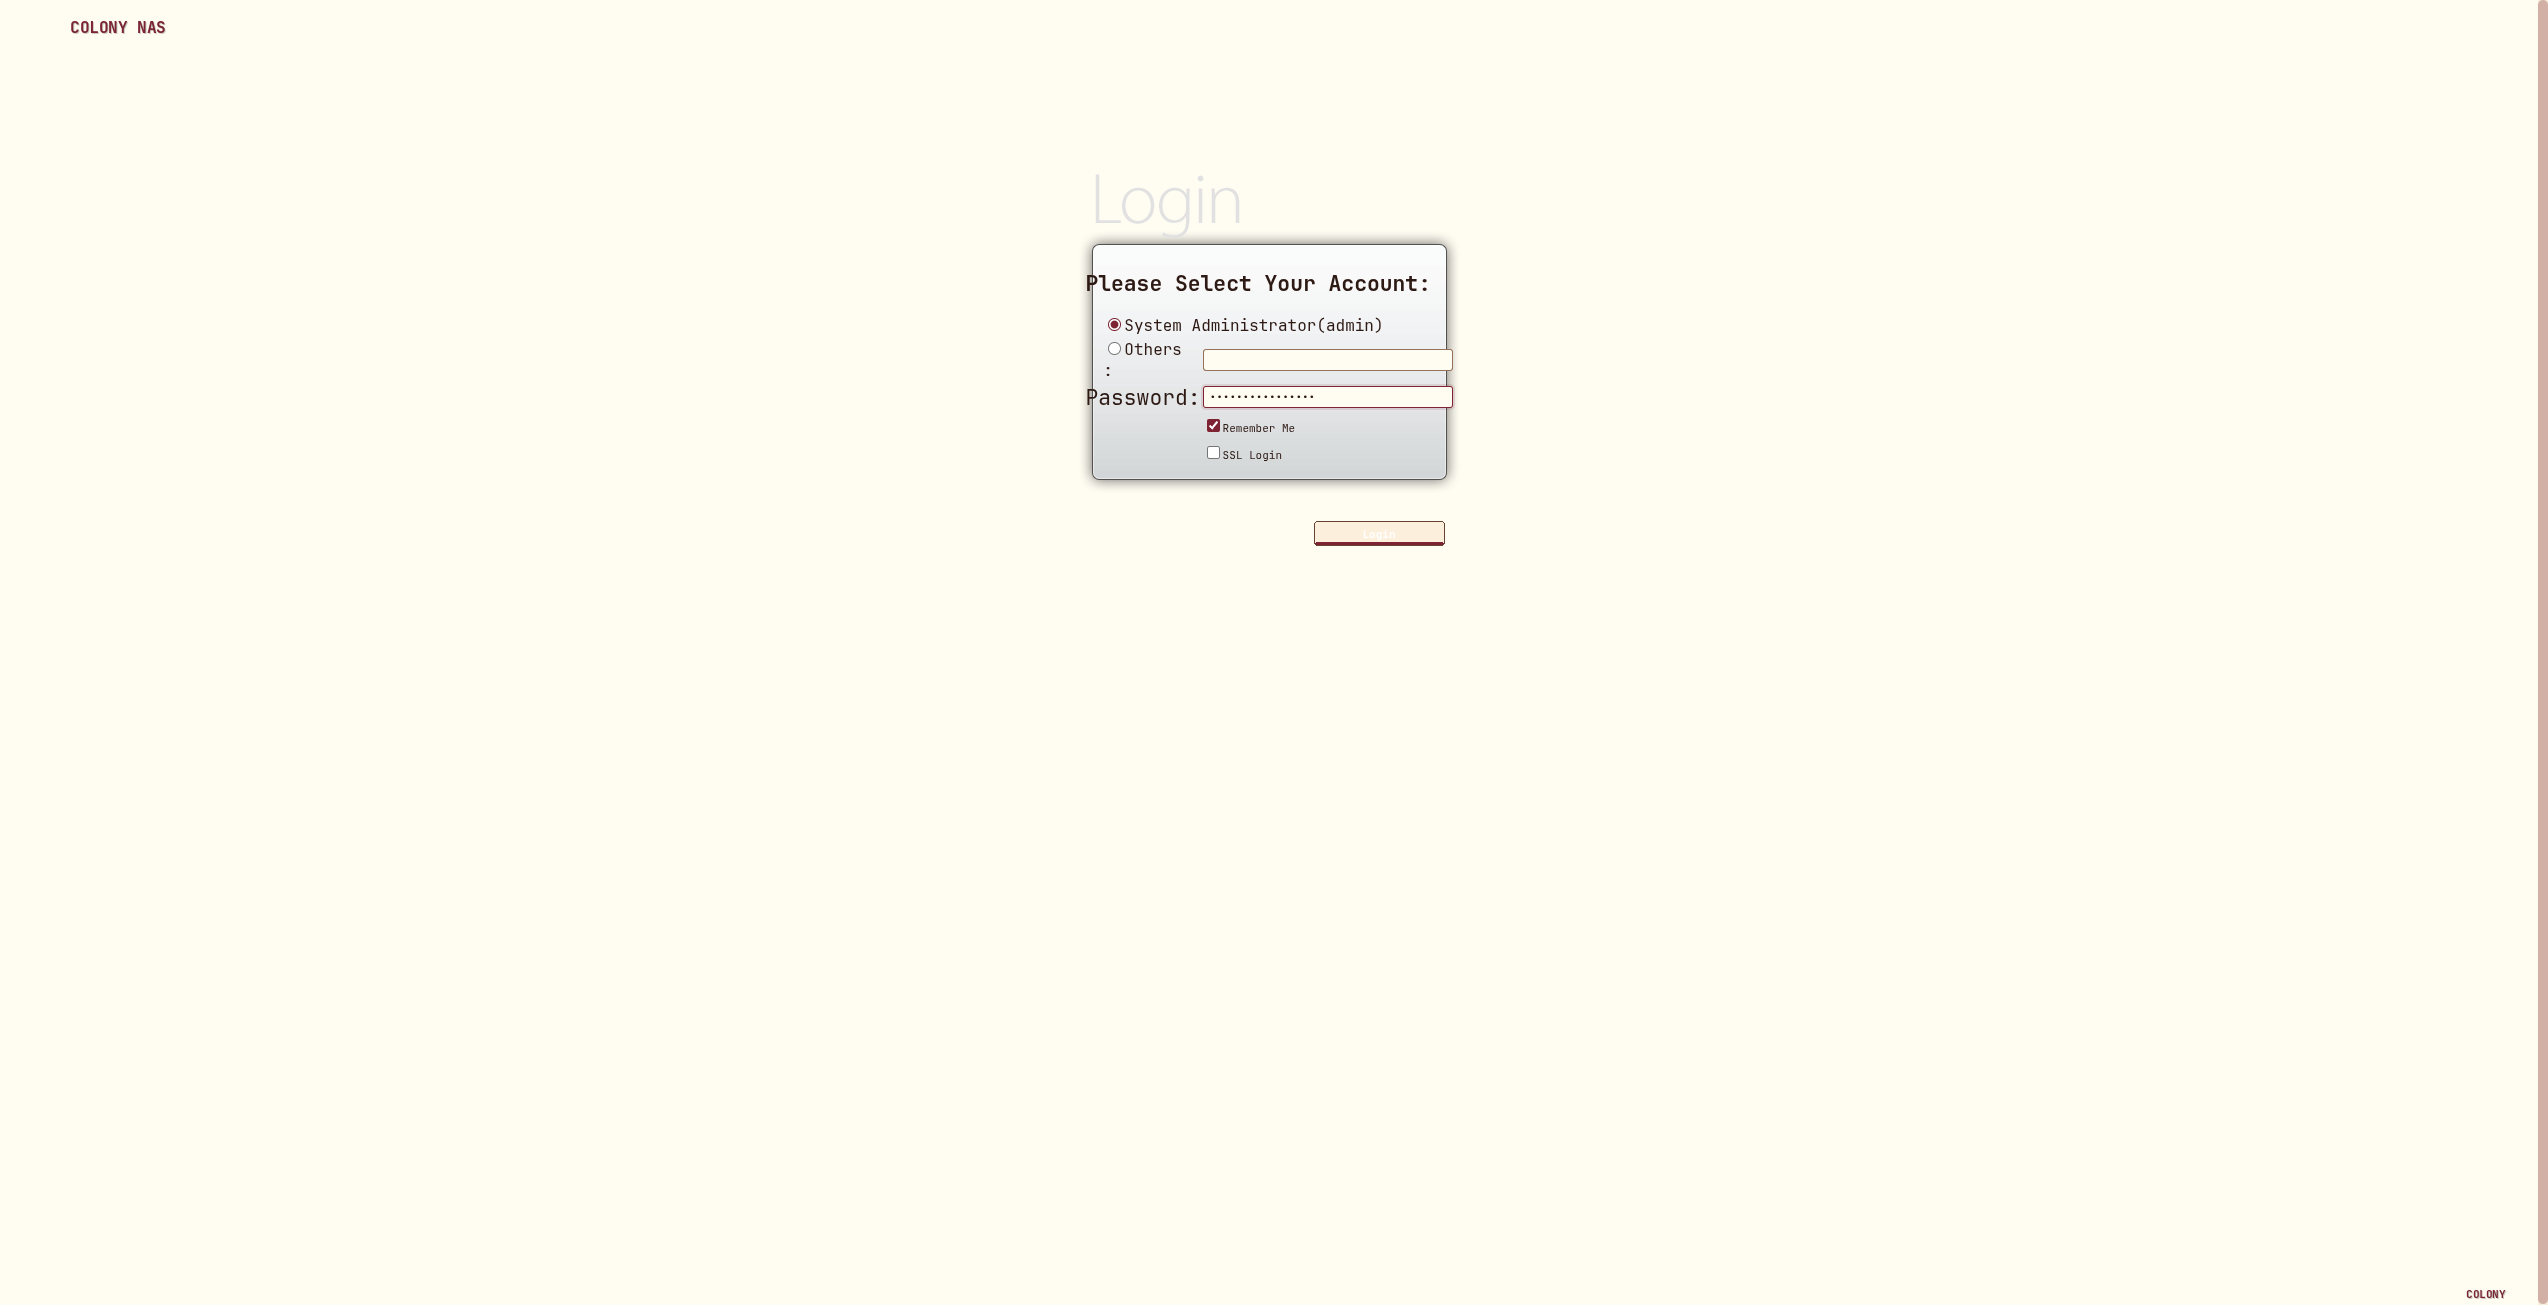
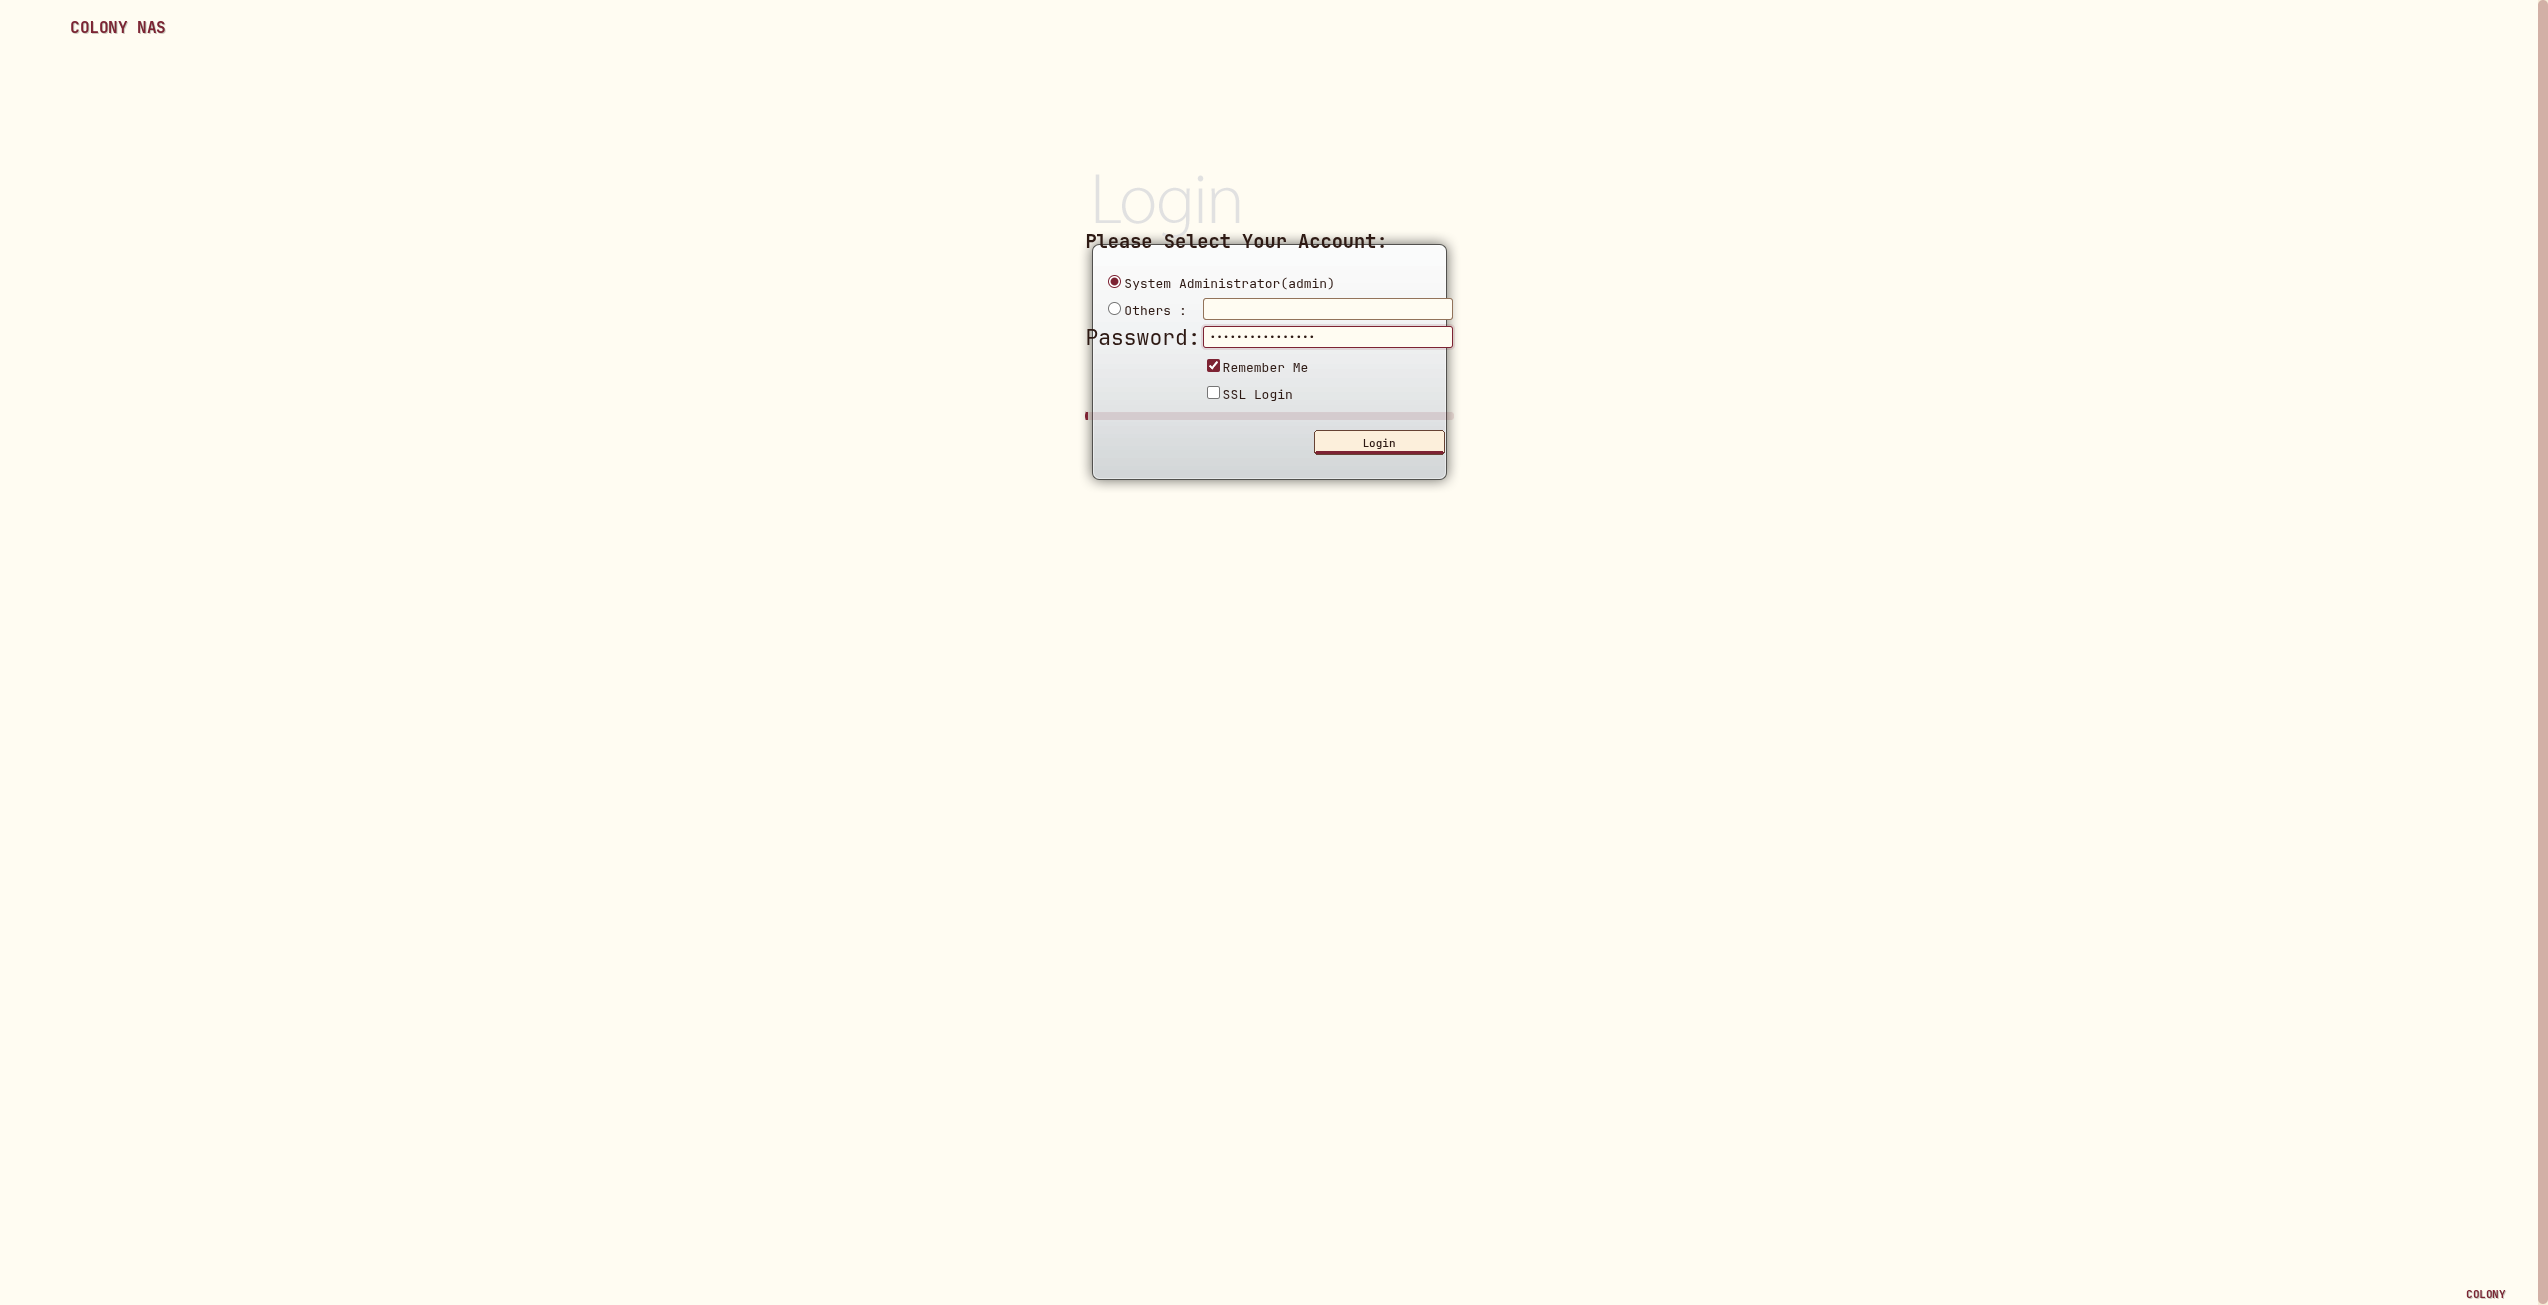
feat(login): full Colony reskin of /web/login.html
The login page has its own composite asset login.png (383x325) that
the inline <style> sets as .login background. The original PNG packs
both the "Login" watermark and the metallic grey panel into one
image, so a CSS-only override leaves the grey panel intact. Replace
that PNG with a parchment panel + compact burgundy "Login" watermark.

Asset changes (theme/scripts/build-assets.py):
- Add gen_login_panel() producing pages/images/login.png with the
  watermark at the top-left in faded burgundy (40pt) and a tall
  parchment panel covering most of the 325px height.
- Add gen_body_bg() producing pages/images/bg.png (1x768 solid
  parchment column) to replace D-Link's grey-to-light gradient.

CSS changes (theme/css/overrides.css):
- Fix .button_min/.button_medium/.button_large/etc to use --colony-ink
  instead of inheriting D-Link's hardcoded color:#fff (white on
  parchment = invisible). Same for .menu_off/.menu_on/.menu_hover.
- Disabled variants (*_display) use --colony-ink-very-dim.
- Override .login: padding-top:60px (below new watermark), height:auto
  (let it grow with monospace wraps), min-height:325px.
- Pull #submit_but back into the panel (top:10px instead of D-Link's 50px).
- Force white-space:nowrap on .login label/font/span so "Others :"
  and other short labels don't wrap onto 3 lines with JetBrainsMono
  (which is ~30% wider than Tahoma).
- Reduce "Please Select Your Account:" font-size from 16pt to 14pt
  so it still fits on one line.
[…]

Changed region(s): [[0.4341, 0.1839, 0.5891, 0.3678], [0.5271, 0.3985, 0.5581, 0.4291]]

diff --git a/theme/css/overrides.css b/theme/css/overrides.css
@@ -221,6 +221,43 @@ input[type="radio"] {
 }
 
 /* =========================================================================
+   8b. Sprite-backed buttons - fix text color
+   D-Link's button_style.css sets color:#fff on every button class because
+   the original PNG sprites have dark blue backgrounds. Our replacement
+   sprites have parchment backgrounds, so white text vanishes. Force ink
+   for all of them, except the primary action which becomes parchment-on-
+   burgundy via the .button_min ._text rule below.
+   ========================================================================= */
+
+.button,
+.button_min,
+.button_medium,
+.button_large,
+.button_max,
+.button_max_generic,
+.button_max_wizard,
+.button_new,
+.button_login,
+.menu_off,
+.menu_on,
+.menu_on span,
+.menu_hover {
+    color: var(--colony-ink) !important;
+    font-family: var(--colony-font-display) !important;
+    font-weight: var(--colony-fw-semibold) !important;
+}
+
+/* Display variants are disabled-state */
+.button_display,
+.button_min_display,
+.button_medium_display,
+.button_large_display,
+.button_max_display,
+.button_max_generic_display {
+    color: var(--colony-ink-very-dim) !important;
+}
+
+/* =========================================================================
    9. Apply buttons (small text-only variants)
    ========================================================================= */
 
@@ -341,6 +378,58 @@ input[type="radio"] {
 }
 ::-webkit-scrollbar-thumb:hover {
     background: var(--colony-red);
+}
+
+/* =========================================================================
+   13b. Login page specifics
+   The .login class has background-image: url(/web/images/login.png) set in
+   an inline <style> in login.html. We replace that PNG via bind-mount
+   (parchment panel + burgundy "Login" watermark in a single image).
+   Here we just ensure spacing and text colors play well with the new bg.
+   ========================================================================= */
+
+.login {
+    padding-top: 60px !important;       /* below the compact watermark */
+    height: auto !important;            /* let it grow if monospace text wraps */
+    min-height: 325px;
+    color: var(--colony-ink) !important;
+}
+
+/* The submit_but div is positioned with top:50px which used to leave it
+   below the panel. Pull it back so it sits inside the parchment. */
+#submit_but.submit_but {
+    top: 10px !important;
+}
+
+#id_warn {
+    color: var(--colony-red) !important;
+    background: var(--colony-red-very-soft);
+    padding: 4px 8px;
+    border-left: 3px solid var(--colony-red);
+    border-radius: var(--colony-radius-input);
+    margin-top: 6px;
+}
+
+/* The "Please Select Your Account" heading inside the login box */
+.login b,
+.login font {
+    color: var(--colony-ink) !important;
+    font-family: var(--colony-font-display) !important;
+}
+
+/* JetBrainsMono is wider than Tahoma so D-Link's hardcoded 12pt labels
+   wrap onto multiple lines. Force single-line for short form labels. */
+.login label,
+.login label font,
+.login label span {
+    white-space: nowrap !important;
+    font-size: 13px !important;
+}
+
+/* Same for the main heading - keep "Please Select Your Account:" on one line */
+.login b font,
+.login td > b {
+    font-size: 14pt !important;
 }
 
 /* =========================================================================

diff --git a/theme/scripts/build-assets.py b/theme/scripts/build-assets.py
@@ -228,6 +228,49 @@ def gen_close_button():
         print(f"  close    32x35    {rel}  hover={hover}")
 
 
+def gen_login_panel():
+    """The 383x325 'login.png' contains the dim "Login" watermark + the grey
+    metallic panel in a single composite image. We replace with a small
+    "Login" watermark at the very top and a tall parchment panel taking up
+    most of the image, so the form content fits inside the visible box.
+    """
+    rel = "pages/images/login.png"
+    w, h = 383, 325
+    img = Image.new("RGBA", (w, h), (0, 0, 0, 0))
+    d = ImageDraw.Draw(img)
+
+    # Compact "Login" watermark in upper-left corner, leaves room for the panel
+    title_font = ImageFont.truetype(str(FONT_BOLD), 40)
+    d.text((6, 0), "Login", font=title_font, fill=(125, 35, 51, 90))
+
+    # Panel covers most of the image: starts just below watermark, ends at bottom
+    panel_top = 48
+    d.rounded_rectangle(
+        (3, panel_top, w - 4, h - 4),
+        radius=8,
+        fill=PARCHMENT,
+        outline=RED,
+        width=2,
+    )
+    # Subtle inner shadow for depth
+    d.rounded_rectangle(
+        (5, panel_top + 2, w - 6, h - 6),
+        radius=7,
+        outline=(46, 26, 20, 25),
+        width=1,
+    )
+    img.save(out(rel), "PNG", optimize=True)
+    print(f"  login    {w:>3}x{h:<3}  {rel}  (panel + watermark)")
+
+
+def gen_body_bg():
+    """1x768 vertical strip used as body background repeat-x. Simple parchment."""
+    rel = "pages/images/bg.png"
+    img = Image.new("RGB", (1, 768), (255, 252, 242))
+    img.save(out(rel), "PNG", optimize=True)
+    print(f"  body_bg  1x768    {rel}")
+
+
 def gen_pop_bg():
     """Modal popup background - 4x550 tile, repeats horizontally.
 
@@ -446,6 +489,8 @@ def main():
     gen_buttons()
     gen_login_button()
     gen_menu_top_button()
+    gen_login_panel()
+    gen_body_bg()
     gen_close_button()
     gen_pop_bg()
     gen_logos()